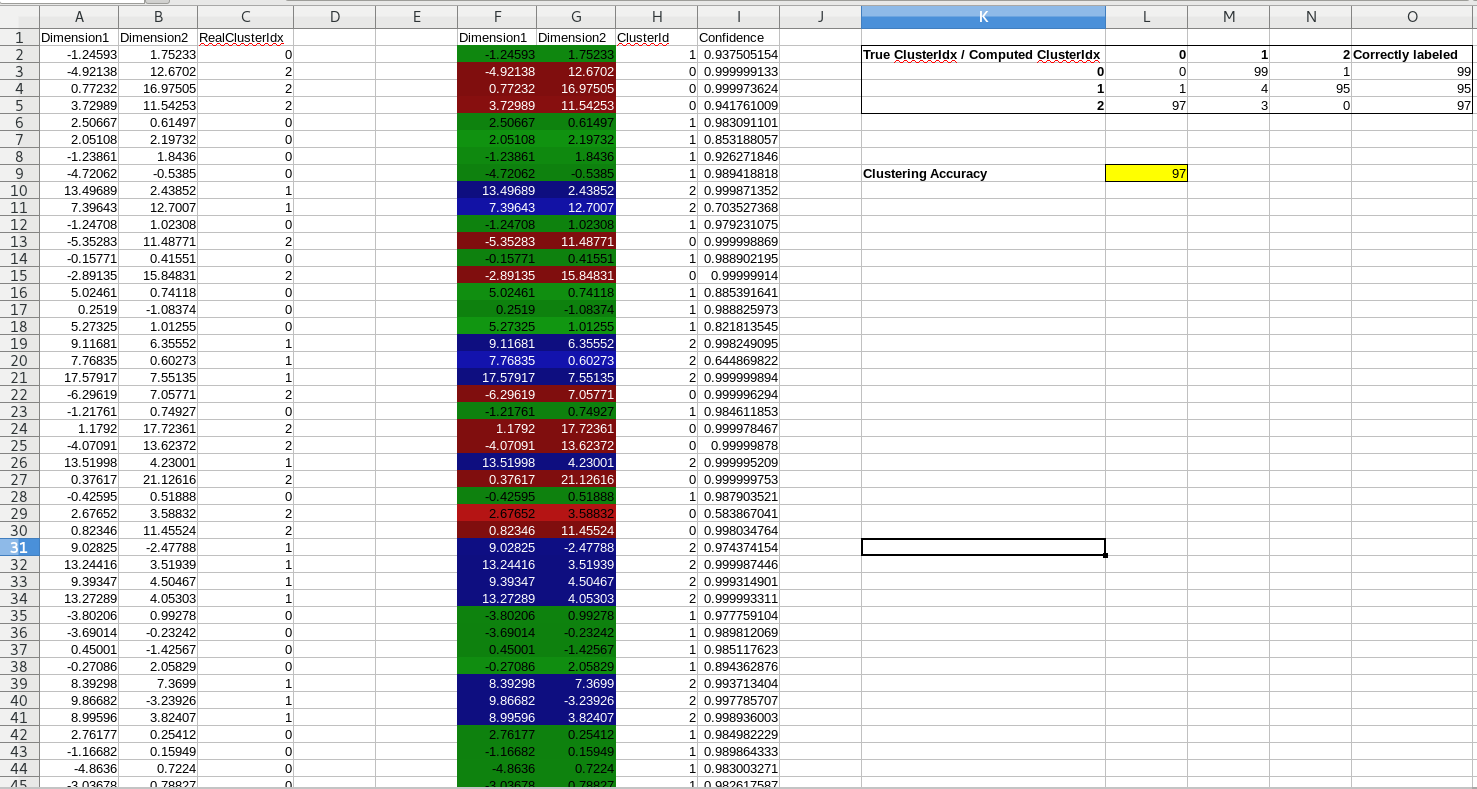
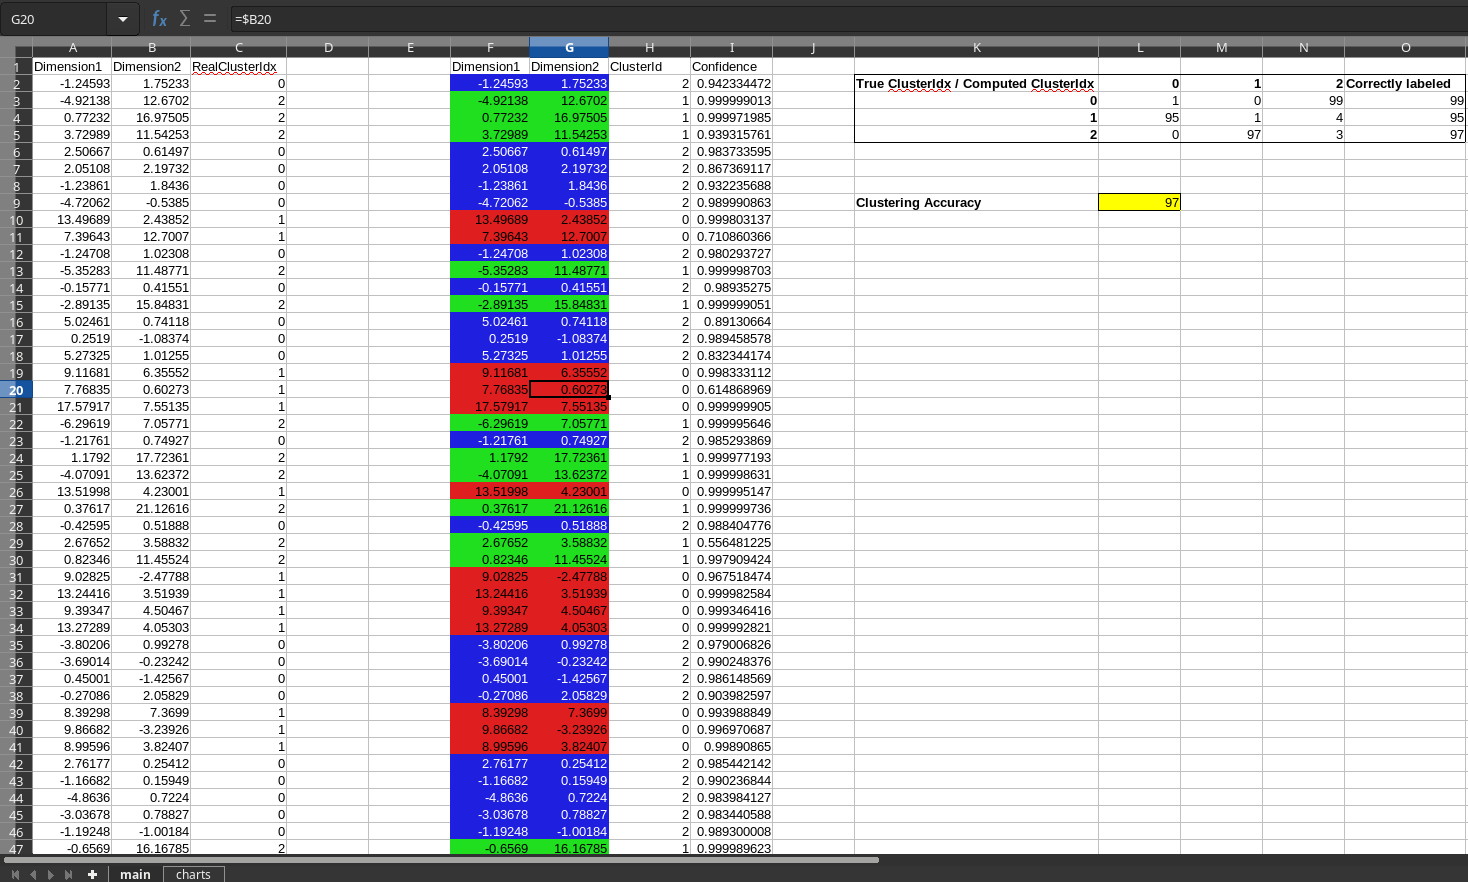
update README and screenshot of the clustered output

diff --git a/README.md b/README.md
@@ -1,6 +1,6 @@
 # ClusterRows
 
-A LibreOffice Calc extension that clusters the rows in a table and color them to indicate the clusters.
+A LibreOffice Calc extension that clusters the rows in a table and colors them to indicate the clusters.
 
 ## Install
 Use the extension manager of LibreOffice to install the pre-built extension downloaded from the Release page. Alternatively you can install the downloaded extension from the console as:
@@ -8,32 +8,36 @@ Use the extension manager of LibreOffice to install the pre-built extension down
 $ unopkg install <path-to-downloaded-extension>/ClusterRows.oxt
 ```
 
-To use this extension on some data in a sheet in LibreOffice, place the cursor on any cell inside your table with data ( no need to select the whole table ) and go to the menu Clustering, and click on "Cluster rows and color them". The rows are colored with respect to the cluster assignment. Two new columns [ClusterId and Confidence] are added to the right of the table. **ClusterId** specifies the cluster to which the row is assigned and **Confidence** indicates the algorithm's confidence in scale [0,1] that this cluster assignment may be correct (higher number means higher confidence).
+## How to use?
 
-The project uses an in-house implementation of [Expectation Maximization](http://cs229.stanford.edu/notes/cs229-notes7b.pdf) algorithm to compute the clusters. It chooses the number of clusters parameter via [Bayesian information criterion](https://en.wikipedia.org/wiki/Bayesian_information_criterion).
+1. Place the cursor on any cell inside your table with data (no need to select the whole table)
+2. Either click the toolbar item named "Cluster rows" which is next to the AutoFilter item or the *Clustering...* menu item under *Data* > *Statistics*.
+3. Now a dialog will appear where the parameters of clustering can be set. It is also possible to specify whether the data rows need to be colored according to the cluster assignments.
+4. After pressing the *Compute* button, two new columns [ClusterId and Confidence] are added to the right of the table. **ClusterId** specifies the cluster to which the row is assigned and **Confidence** indicates the algorithm's confidence in scale [0,1] that this cluster assignment may be correct (higher number implies higher confidence). Depending on the choice provided in the dialog, the data rows are colored according to the cluster assignments.
 
-The project is under heavy development, but is usable. Whole of the project was written from scratch and it does not depend on any Machine Learning or Linear Algebra library. Full source code is made available under [GPL3 license](https://www.gnu.org/licenses/gpl-3.0.en.html). If you are interested in understanding how to build LibreOffice extensions like this, I have a blog for that at [https://niocs.github.io/LOBook/extensions/index.html](https://niocs.github.io/LOBook/extensions/index.html).
+The project uses an in-house implementation of full [Expectation Maximization](https://en.wikipedia.org/wiki/Expectation%E2%80%93maximization_algorithm) algorithm to compute the clusters. In the auto mode (when number of clusters is specified as 0) it chooses the number of clusters parameter via [Bayesian information criterion](https://en.wikipedia.org/wiki/Bayesian_information_criterion).
 
-A major issue is that the prebuilt extension (.oxt file) supports only modern GNU/Linux 64 bit systems comparable to Ubuntu 20.04+. However support for MS Windows and MacOSX is planned. Another caveat is that for the extension to work, at least 10 samples(rows) are needed in the table.
+The project does not depend on any machine learning or linear algebra libraries. Full source code is made available under [GPL3 license](https://www.gnu.org/licenses/gpl-3.0.en.html).
+
+As of the present release, only Linux is supported. Support for Windows and MacOSX is planned.
 
 ## Sample usage of the extension
-In `testdocs` directory there is a spreadsheet file called `three-clusters.ods`. In that file there is a dataset artificially created from a 3-cluster Gausian mixture model in the range `A1:C301`.
-This dataset has just two dimensions/variables(column A and B). Column C has the ground truth cluster id information of each row. To test the extension a copy of the dataset is made(excluding the ground-truth column) to `F1:G301`. Now place the cursor anywhere in the range `F1:G301` and go to the menu `Clustering > Find 3 clusters`. The extension will compute the 3 clusters and produce the columns `ClusterId` and `Confidence`. The cell `L9` now will indicate the clustering accuracy. This is a measure of how well the clustering algorithm was able to assign clusters compared to the ground truths in the original dataset. Typically we get around 97% accuracy for this dataset.
+In `testdocs` directory there is a spreadsheet file called `three-clusters.ods`. In that sheet there is a dataset in the range `A1:C301` synthetically  generated from a 3-cluster Gausian mixture model. This toy dataset has two dimensions/variables(column A and B). Column C has the ground truth cluster id information of each row. To test the extension a copy of the dataset is placed(excluding the ground-truth column) at `F1:G301`. Now place the cursor anywhere in the range `F1:G301` and go to the menu `Data > Statistics > Clustering...` and click Ok in the dialog. The extension will compute the 3 clusters and produce the columns `ClusterId` and `Confidence` next to the data. The cell `L9` in that sheet will indicate the clustering accuracy. This is a measure of how well the clustering algorithm was able to assign clusters compared to the ground truths in the original dataset. Typically we get around 97% accuracy for this dataset.
 ![Clustering Output](img/output.png)
-The document also produces visualizations of the data in sheet `charts`. The left chart shows the data points colored according to the ground truth clusters of the dataset. The middle chart shows the data points without the ground truth information, which is provided as input to the clustering algorithm. The right chart shows the data colored as per the cluster assignments made by the clustering algorithm.
+The document also contains visualizations of the data in the sheet `charts`. The left chart shows the data points colored according to the ground truth clusters of the dataset. The middle chart shows the data points without the cluster information (which is the input to the clustering algorithm). The right chart shows the data colored according to the cluster assignments made by the algorithm.
 ![Visualization](img/chart.png)
 
 ## Building the extension from source
 
-First you need to setup LibreOffice SDK as per the instruction in [http://api.libreoffice.org/docs/install.html](http://api.libreoffice.org/docs/install.html).
+1. Setup LibreOffice SDK. See [http://api.libreoffice.org/docs/install.html](http://api.libreoffice.org/docs/install.html).
 Then do the below :
 
 ```
 $ cd ClusterRows
 $ make
 ```
-After this the extension file `ClusterRows.oxt` can be found in `build/extension/`.
+After this the extension file `ClusterRows.oxt` can be found in `build/extension/`. Running `make install` will install the build extension to Calc (via `unopkg install` command).
 
-If you get errors on running `make`, please check if the SDK's environment variables are set properly after setting up the SDK. If that does not solve it, open an issue here.
+If you get errors on running `make`, check if the SDK's environment variables are set properly after setting up the SDK. If the errors persist, please open an issue here.
 
 As always pull-requests are welcome. Happy hacking !
